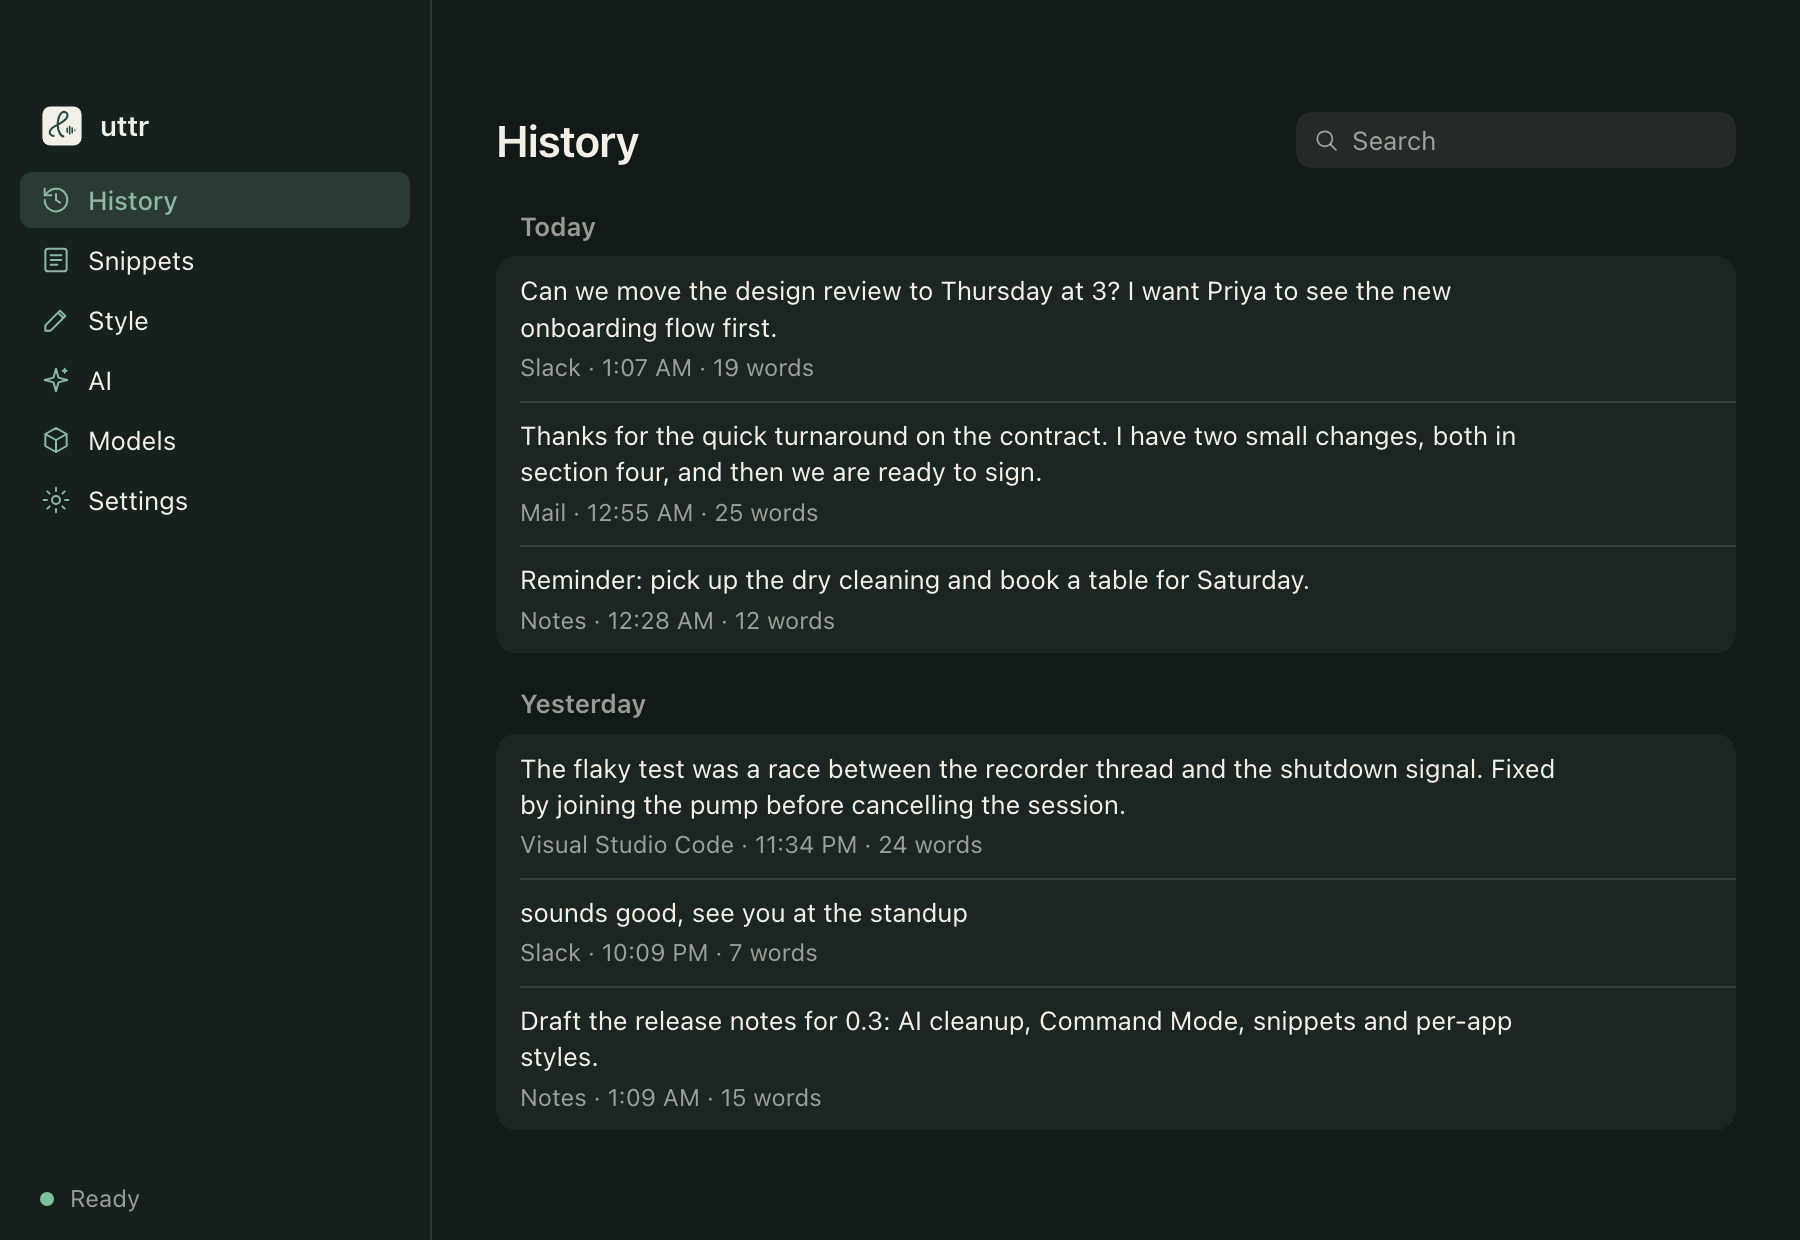
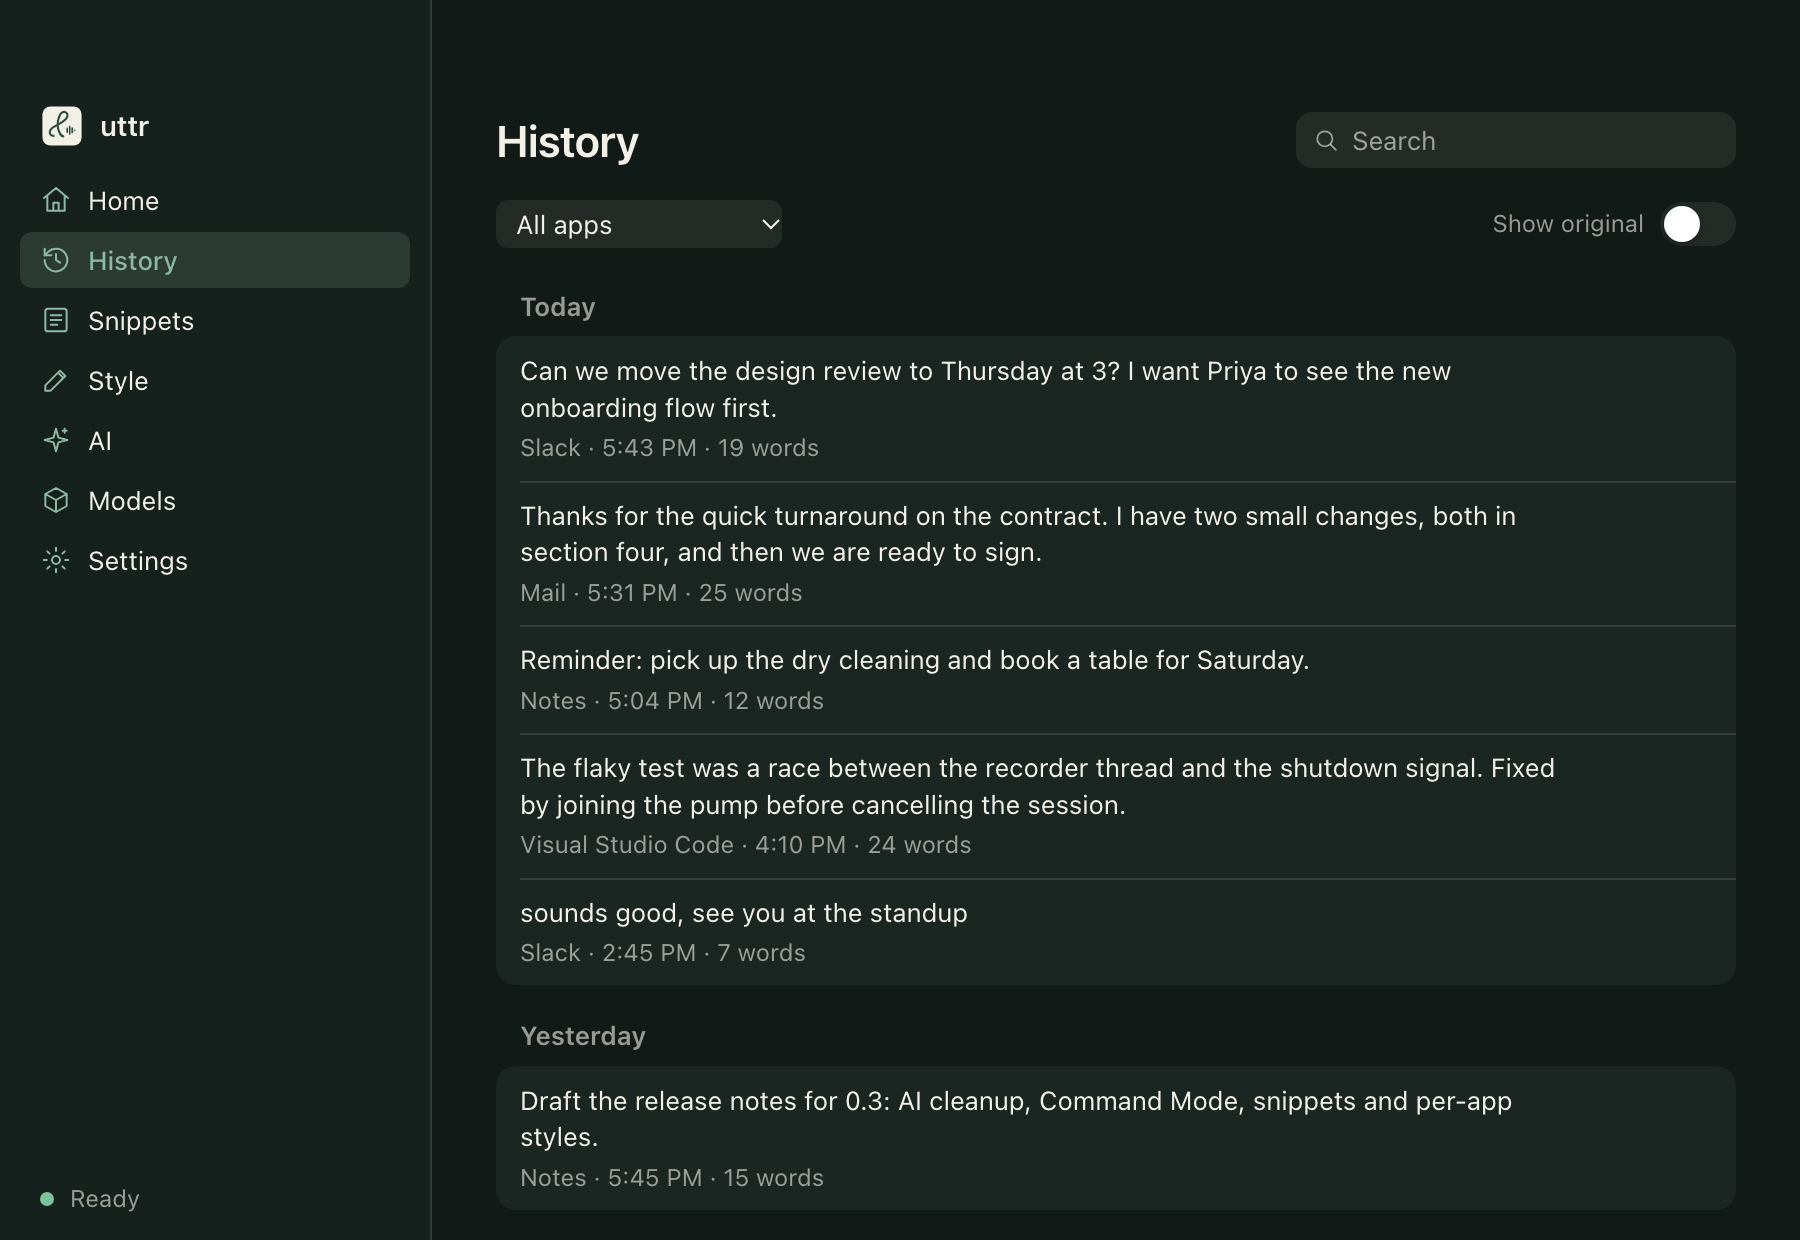
docs: README for Part 3, BYOK speech, OpenRouter and Wayland; new screenshots
README now opens with the Home dashboard and shows OpenRouter, BYOK speech, history,
setup and the tour. Adds BYOK and Wayland docs, marks every roadmap phase done, and
extends the E2E checklist. Home tiles use short labels so values line up; the
screenshot harness gained sample stats, OpenRouter models and step/tour options.

diff --git a/scripts/screenshots/mock.ts b/scripts/screenshots/mock.ts
@@ -27,6 +27,15 @@ const settings = {
   onboarded: true, commandHotkey: { keys: ['Fn', 'ControlLeft'] }, aiProvider: 'local', openaiModel: 'gpt-5-mini',
   openaiBaseUrl: 'https://api.openai.com/v1', anthropicModel: 'claude-opus-5-5', defaultStyle: 'formal',
   appStyles: [{ app: 'Slack', style: 'veryCasual' }, { app: 'Messages', style: 'casual' }, { app: 'Mail', style: 'formal' }],
+  openrouterModel: 'anthropic/claude-opus-5.5', sttProvider: 'local', sttCloudBaseUrl: 'https://api.groq.com/openai/v1',
+  sttCloudModel: 'whisper-large-v3-turbo', sttCloudLanguage: '', historyRetentionDays: null,
+};
+const day = (i: number) => new Date(now - (29 - i) * 86_400_000).toISOString().slice(0, 10);
+const words = [120, 340, 0, 410, 280, 520, 610, 0, 0, 380, 450, 700, 640, 300, 520, 810, 760, 0, 430, 590, 680, 720, 910, 0, 560, 840, 990, 760, 880, 640];
+const stats = {
+  totalWords: 48210, dictations: 1284, speakingMs: 21_300_000, avgWpm: 135.8, currentStreak: 6, longestStreak: 14,
+  timeSavedMin: 850.3, days: words.map((w, i) => ({ date: day(i), words: w })),
+  topApps: [{ app: 'Slack', words: 17840 }, { app: 'Mail', words: 11230 }, { app: 'Visual Studio Code', words: 8120 }, { app: 'Notes', words: 6010 }, { app: 'Messages', words: 3420 }],
 };
 const t = (id: number, ago: number, text: string, app: string, words: number) => ({
   id, createdAt: now - ago * min, text, rawText: text, appName: app, durationMs: words * 400, wordCount: words, wpm: 150, modelId: 'parakeet-v2',
@@ -54,7 +63,13 @@ const replies: Record<string, unknown> = {
   recommend: { id: 'parakeet-v2', hardware: {} },
   llm_catalog: llms,
   llm_installed: [{ ...llms[0], diskBytes: 1_117_320_736, active: true }],
-  ai_keys_status: { openAi: false, anthropic: true },
+  ai_keys_status: { openAi: false, anthropic: true, openRouter: true, speech: false },
+  stats,
+  openrouter_models: [
+    { id: 'anthropic/claude-opus-5.5', name: 'Anthropic: Claude Opus 5.5', contextLength: 1000000, inputPerM: 4, outputPerM: 20 },
+    { id: 'anthropic/claude-haiku-5.5', name: 'Anthropic: Claude Haiku 5.5', contextLength: 1000000, inputPerM: 0.1, outputPerM: 0.5 },
+    { id: 'openai/gpt-5-mini', name: 'OpenAI: GPT-5 Mini', contextLength: 400000, inputPerM: 0.25, outputPerM: 2 },
+  ],
   ai_try: 'I think we should meet on Wednesday at ten.',
   history_list: history,
   dictionary_list: [{ id: 1, term: 'Kubernetes', replacement: null }, { id: 2, term: 'uttr', replacement: null }],
@@ -63,12 +78,23 @@ const replies: Record<string, unknown> = {
   mic_list: ['MacBook Pro Microphone', 'AirPods Pro'],
 };
 
+const params = new URLSearchParams(location.search);
+// ?provider=openRouter, ?stt=cloud and ?tour=1 show those states.
+if (params.get('provider')) settings.aiProvider = params.get('provider')!;
+if (params.get('stt')) settings.sttProvider = params.get('stt')!;
+try {
+  localStorage.setItem('uttr.tour.done', params.get('tour') ? '' : '1');
+  if (!params.get('tour')) localStorage.removeItem('uttr.getStarted.hidden');
+  // ?step=4 opens onboarding on that step (0-based).
+  if (params.get('step')) localStorage.setItem('uttr.onboardingStep', params.get('step')!);
+} catch { /* storage unavailable */ }
+
 mockIPC((cmd, args) => {
   if (cmd === 'history_list') return (args as { page: number }).page === 0 ? history : [];
   return replies[cmd] ?? null;
 }, { shouldMockEvents: true });
 
-const theme = new URLSearchParams(location.search).get('theme');
+const theme = params.get('theme');
 if (theme) localStorage.setItem('uttr.theme', theme);
 
 await import('../../src/main.tsx');

diff --git a/src/pages/Home.tsx b/src/pages/Home.tsx
@@ -24,10 +24,11 @@ function greeting(d = new Date()): string {
   return h < 12 ? 'Good morning' : h < 18 ? 'Good afternoon' : 'Good evening';
 }
 
-function Tile({ label, value, hint, icon }: { label: string; value: string; hint: string; icon: IconName }) {
+/** `label` names the tile for screen readers; `short` is what fits on it. */
+function Tile({ label, short, value, hint, icon }: { label: string; short: string; value: string; hint: string; icon: IconName }) {
   return (
     <div className="home-tile" role="group" aria-label={label}>
-      <span className="home-tile-head"><Icon name={icon} size={14} />{label}<InfoTip text={hint} /></span>
+      <span className="home-tile-head"><Icon name={icon} size={14} /><span className="home-tile-label" aria-hidden="true">{short}</span><InfoTip text={hint} /></span>
       <span className="home-tile-value">{value}</span>
     </div>
   );
@@ -136,10 +137,10 @@ export default function Home() {
       {stats && !empty && (
         <>
           <div className="home-tiles">
-            <Tile label="Words dictated" icon="mic" value={stats.totalWords.toLocaleString()} hint={`Across ${stats.dictations.toLocaleString()} dictations.`} />
-            <Tile label="Average speed" icon="sparkle" value={`${Math.round(stats.avgWpm)} WPM`} hint="Words per minute while you speak. Typing is about 40." />
-            <Tile label="Day streak" icon="history" value={`${stats.currentStreak} ${stats.currentStreak === 1 ? 'day' : 'days'}`} hint={`Days in a row with a dictation. Your longest: ${stats.longestStreak}.`} />
-            <Tile label="Time saved" icon="check" value={fmtMinutes(stats.timeSavedMin)} hint="Compared with typing the same words at 40 words per minute." />
+            <Tile label="Words dictated" short="Words" icon="mic" value={stats.totalWords.toLocaleString()} hint={`Across ${stats.dictations.toLocaleString()} dictations.`} />
+            <Tile label="Average speed" short="Speed" icon="sparkle" value={`${Math.round(stats.avgWpm)} WPM`} hint="Words per minute while you speak. Typing is about 40." />
+            <Tile label="Day streak" short="Streak" icon="history" value={`${stats.currentStreak} ${stats.currentStreak === 1 ? 'day' : 'days'}`} hint={`Days in a row with a dictation. Your longest: ${stats.longestStreak}.`} />
+            <Tile label="Time saved" short="Time saved" icon="check" value={fmtMinutes(stats.timeSavedMin)} hint="Compared with typing the same words at 40 words per minute." />
           </div>
           <Group title="Last 30 days"><div className="ui-row home-chart-row"><Chart days={stats.days} /></div></Group>
           <div className="home-columns">

diff --git a/src/main.css b/src/main.css
@@ -189,7 +189,8 @@
 .home-sub { display: flex; align-items: center; gap: 4px; flex-wrap: wrap; margin-top: 2px; }
 .home-tiles { display: grid; grid-template-columns: repeat(4, minmax(0, 1fr)); gap: 10px; }
 .home-tile { background: var(--surface); border-radius: var(--radius-group); padding: 12px 14px; display: flex; flex-direction: column; gap: 6px; box-shadow: 0 0 0 1px var(--separator); }
-.home-tile-head { display: flex; align-items: center; gap: 6px; font-size: 12px; color: var(--label-secondary); }
+.home-tile-head { display: flex; align-items: center; gap: 6px; font-size: 12px; color: var(--label-secondary); min-width: 0; }
+.home-tile-label { flex: 1; min-width: 0; white-space: nowrap; overflow: hidden; text-overflow: ellipsis; }
 .home-tile-value { font-size: 22px; font-weight: 650; letter-spacing: -0.02em; font-variant-numeric: tabular-nums; }
 .home-chart-row { padding-top: 14px; padding-bottom: 10px; }
 .home-chart { display: flex; align-items: flex-end; gap: 3px; height: 96px; width: 100%; }
@@ -238,7 +239,7 @@
 .onb-highlight strong { display: block; margin-bottom: 2px; }
 .onb-highlight .muted { display: block; line-height: 1.4; }
 .onb-highlight-icon { flex: none; width: 30px; height: 30px; border-radius: 8px; background: var(--accent-tint); color: var(--accent); display: inline-flex; align-items: center; justify-content: center; }
-.onb-moves { margin: 4px 0 0; padding-left: 20px; text-align: left; display: flex; flex-direction: column; gap: 8px; line-height: 1.45; }
+.onb-moves { list-style: decimal; margin: 4px 0 0; padding-left: 20px; text-align: left; display: flex; flex-direction: column; gap: 8px; line-height: 1.45; }
 .onb-moves .ui-keycaps { vertical-align: middle; margin: 0 2px; }
 .onb-summary { list-style: none; margin: 4px 0 0; padding: 0; width: 100%; text-align: left; }
 .demo { position: relative; width: 100%; height: 190px; border-radius: 14px; background: linear-gradient(160deg, var(--accent-tint), transparent 70%), var(--fill); overflow: hidden; }

diff --git a/README.md b/README.md
@@ -19,13 +19,13 @@ It is a small [Tauri 2](https://tauri.app) app (Rust core, React UI) that lives 
 The installer includes everything the app needs, including the ONNX Runtime libraries. You download
 models from Hugging Face inside the app.
 
-> Status: Part 1 (core dictation and the local model manager) and Part 2 (text intelligence: AI cleanup,
-> Command Mode, snippets and per-app styles) are done. See the [Roadmap](#roadmap).
+> Status: every roadmap phase is done: core dictation and the model manager (Part 1), text intelligence
+> (Part 2), the Home dashboard (Part 3) and Wayland shortcuts. See the [Roadmap](#roadmap).
 
 <p align="center">
   <picture>
-    <source media="(prefers-color-scheme: dark)" srcset="docs/images/history-dark.png">
-    <img src="docs/images/history-light.png" alt="The uttr window showing the History page with recent dictations" width="760">
+    <source media="(prefers-color-scheme: dark)" srcset="docs/images/home-dark.png">
+    <img src="docs/images/home-light.png" alt="The uttr Home page: words dictated, speed, streak, time saved and a 30-day chart" width="760">
   </picture>
 </p>
 
@@ -48,7 +48,12 @@ models from Hugging Face inside the app.
   such as "make this friendlier" or "translate to Spanish". With nothing selected, uttr writes new text at the cursor.
 - **Snippets**: say a short phrase such as "my calendar link" and uttr types the saved text.
 - **Styles per app**: formal, casual or very casual, chosen by the app you are dictating into (for example very casual in Slack, formal in Mail).
-- Searchable history of your dictations, stored in SQLite on your machine.
+- **Home dashboard**: words dictated, average speed, day streak, time saved against typing, a 30-day chart and your top apps.
+- Searchable history of your dictations, stored in SQLite on your machine. Filter by app, compare with the original
+  transcript, and choose how long history is kept.
+- **Bring your own key for speech** (optional): transcribe with OpenAI, Groq or any OpenAI-compatible server
+  instead of an on-device model.
+- A guided setup, an in-app tour of every page and tooltips that explain the technical settings.
 - Low resource use. uttr stays in the tray at rest, and the model unloads after an idle timeout (10 minutes by default, or never).
 - Optional Hugging Face token for gated or private repos, stored in the system keychain.
 - Open at login, microphone selection and a configurable shortcut.
@@ -59,18 +64,24 @@ models from Hugging Face inside the app.
 - The microphone stays open for up to 15 s after a dictation so the next one does not clip the first word. While it is open, only the latest 0.3 s of audio is held in memory.
   After 15 s it closes.
 - The only network traffic is model downloads and searches on Hugging Face, which you start yourself.
-- AI is off by default. On-device AI keeps your text on your computer. If you choose OpenAI or Anthropic, the
-  dictated **text** (never the audio) is sent to that provider, and your API key is stored in the system keychain.
+- AI is off by default. On-device AI keeps your text on your computer. If you choose OpenAI, Anthropic or OpenRouter,
+  the dictated **text** (never the audio) is sent to that provider, and your API key is stored in the system keychain.
+- Speech runs on your computer unless you switch to **Cloud (your key)** on the Models page. Then the **audio** of each
+  dictation is sent to the service you chose (OpenAI, Groq or your own server) and billed to your account.
 - Custom Hugging Face repos: files tracked with Git LFS are checked against their SHA-256. Other files
   (such as `tokens.txt`) are checked for size only, because Hugging Face publishes no hash for them.
 
 ## Screenshots
 
-| AI cleanup and Command Mode | Snippets |
+| AI cleanup with OpenRouter | Bring your own key for speech |
 |---|---|
-| ![The AI page: provider choice, on-device models and the Command Mode shortcut](docs/images/ai-light.png) | ![The Snippets page with an email address, a calendar link and a sign-off](docs/images/snippets-light.png) |
-| **Styles per app** | **Dark theme** |
-| ![The Style page with a default style and rules for Slack, Messages and Mail](docs/images/style-light.png) | ![The AI page in the dark theme](docs/images/ai-dark.png) |
+| ![The AI page with OpenRouter, a model picker with prices and the Command Mode shortcut](docs/images/ai-light.png) | ![The Models page with cloud speech through Groq](docs/images/byok-light.png) |
+| **History** | **Snippets** |
+| ![The History page with an app filter and the Show original switch](docs/images/history-light.png) | ![The Snippets page with an email address, a calendar link and a sign-off](docs/images/snippets-light.png) |
+| **Styles per app** | **Setup: How it works** |
+| ![The Style page with a default style and rules for Slack, Messages and Mail](docs/images/style-light.png) | ![The How it works step of setup, with an animated demo](docs/images/onboarding-light.png) |
+| **The tour** | **Dark theme** |
+| ![The in-app tour pointing at Home](docs/images/tour-light.png) | ![The AI page in the dark theme](docs/images/ai-dark.png) |
 
 The screenshots use sample data. To retake them after a UI change, see [scripts/screenshots](scripts/screenshots/README.md).
 
@@ -117,9 +128,10 @@ Run the installer. For unsigned builds, Windows SmartScreen may warn about an un
 ### Linux
 
 - **X11**: supported. The default shortcut is to hold `Ctrl+Super`.
-- **Wayland**: the global shortcut is not available yet, and the app shows "The global shortcut is not available on Wayland."
-  Use an X11 session for now. Where synthetic paste is blocked, the text stays on the clipboard and you paste it yourself.
-  Support through the XDG GlobalShortcuts portal is on the [Roadmap](#roadmap).
+- **Wayland**: shortcuts go through the XDG GlobalShortcuts portal (GNOME 48 or KDE Plasma 6 and later). The desktop
+  asks you to approve uttr's two shortcuts, Dictate and Command Mode, and you can change their keys in its settings.
+  Esc does not cancel a dictation there, because the portal cannot report it. Where synthetic paste is blocked, the
+  text stays on the clipboard and you paste it yourself.
 - Make the AppImage executable (`chmod +x uttr_*.AppImage`) or install the `.deb` with `sudo apt install ./uttr_*.deb`.
 
 ## Supported models
@@ -151,6 +163,7 @@ Choose a provider on the **AI** page:
 | On this computer | Nowhere | Download a model on the AI page; it runs with [llama.cpp](https://github.com/ggml-org/llama.cpp) (Metal on Apple Silicon) |
 | OpenAI | OpenAI, or the OpenAI-compatible server you set | API key (not needed for local servers such as Ollama), model name (default `gpt-5-mini`) |
 | Anthropic | Anthropic | API key, model name (default `claude-opus-5-5`) |
+| OpenRouter | OpenRouter, then the model's provider | API key; pick any of its models from a searchable list with prices (default `anthropic/claude-opus-5.5`) |
 
 On-device models ([`src-tauri/resources/llm_catalog.json`](src-tauri/resources/llm_catalog.json), pinned and SHA-256 verified):
 
@@ -171,6 +184,19 @@ How it fits together:
 Command Mode reads the selection with a synthetic copy (your clipboard is restored), sends your spoken instruction
 and the selection to the AI, and pastes the answer over the selection. The Flow Bar shows **Command** while you speak.
 You can also start a normal dictation and add the extra key to switch it to Command Mode.
+
+## Bring your own key for speech (BYOK)
+
+On the Models page, **Speech recognition** switches between models on this computer and **Cloud (your key)**:
+
+| Service | Server address | Default model |
+|---|---|---|
+| OpenAI | `https://api.openai.com/v1` | `whisper-1` |
+| Groq | `https://api.groq.com/openai/v1` | `whisper-large-v3-turbo` |
+| Other | any OpenAI-compatible `/audio/transcriptions` server, such as a self-hosted Whisper | your choice; a key is optional |
+
+uttr still cuts your speech at pauses and uploads each piece as 16 kHz WAV while you talk, so long dictations finish
+soon after you let go. If a key is missing, the shortcut says what to add instead of recording.
 
 ### Measured performance
 
@@ -216,10 +242,11 @@ One Rust process owns audio, inference, hotkeys, I/O and persistence. The web UI
 
 | Module | Responsibility |
 |---|---|
-| `hotkey` | Global triggers (macOS `Fn` event tap, `rdev`, Wayland portal stub) and the tap and double-tap gesture logic |
+| `hotkey` | Global triggers (macOS `Fn` event tap, `rdev`, the Wayland GlobalShortcuts portal) and the tap and double-tap gesture logic |
 | `audio` | `cpal` capture, resampling to 16 kHz mono, energy VAD, level meter |
 | `dictation` | Pure state machine plus the controller that wires audio, STT, post-processing, insertion and storage |
-| `stt` | `ChunkPlanner`, `SttSession`, the worker thread and the sherpa-onnx engine |
+| `stt` | `ChunkPlanner`, `SttSession`, the worker thread, the sherpa-onnx engine and BYOK cloud transcription |
+| `stats` | Home dashboard statistics (local days, streaks, time saved) and history retention |
 | `models` | Catalog, Hugging Face search, resumable verified downloader, hardware detection, lifecycle |
 | `postprocess` | Spacing and capitalization fixes, dictionary replacements |
 | `llm` | AI cleanup and Command Mode: prompts, the llama.cpp worker, OpenAI and Anthropic clients |
@@ -288,10 +315,11 @@ The manual end-to-end checks for dictation in real apps are listed in [docs/E2E-
 
 ## Roadmap
 
-- **Linux/Wayland**: global shortcuts through the XDG GlobalShortcuts portal.
+- ~~**Linux/Wayland**: global shortcuts through the XDG GlobalShortcuts portal.~~ Done.
 - ~~**Part 2, text intelligence**: local LLM cleanup (llama.cpp), an optional API key for OpenAI or Anthropic,
-  Command Mode, snippets and per-app styles.~~ Done.
-- **Part 3, dashboard**: a dashboard like Wispr's with words, WPM, streaks and time saved, plus full history.
+  Command Mode, snippets and per-app styles.~~ Done, plus OpenRouter.
+- ~~**Part 3, dashboard**: a dashboard like Wispr's with words, WPM, streaks and time saved, plus full history.~~ Done,
+  plus bring-your-own-key speech, a guided setup and an in-app tour.
 
 Not planned for Part 1: auto-update, accounts or sync. Release process: [docs/RELEASING.md](docs/RELEASING.md).
 

diff --git a/docs/E2E-CHECKLIST.md b/docs/E2E-CHECKLIST.md
@@ -42,6 +42,17 @@ For each of **TextEdit, a Safari textarea, VS Code and Slack**:
 - [ ] Snippets: add "my email" and say "my email." on its own: the address is inserted exactly. Inside a sentence it is expanded too.
 - [ ] Style: add Slack as Very casual, dictate "Sounds good." into Slack: "sounds good" is inserted. Mail with Formal keeps "Sounds good."
 
+## 3c. Part 3, BYOK and onboarding
+
+- [ ] AI page, OpenRouter: save a key, search "haiku", pick a model; Try it cleans up the sample.
+- [ ] Models page, Cloud (your key), Groq preset: save a key and dictate; the text arrives and History shows `cloud:whisper-large-v3-turbo`.
+- [ ] Cloud speech without a key: the shortcut shows "Add your speech API key on the Models page." and records nothing.
+- [ ] Home shows words, speed, streak and time saved after a few dictations; the chart's last bar is today.
+- [ ] History: filter by an app, switch on Show original, and set Keep history to 7 days.
+- [ ] A fresh setup (Settings > Help > Run setup) shows How it works with its animation and ends on All set; Start the tour walks all eight steps.
+- [ ] Hovering or tabbing to an icon button or an "i" shows its tooltip; Esc hides it.
+- [ ] Linux (Wayland, GNOME 48+ or Plasma 6): the desktop asks to approve Dictate and Command Mode; holding the shortcut dictates.
+
 ## 4. Performance
 
 - [ ] A 5 s utterance is inserted in under 500 ms after key-up on Apple Silicon. Check the timing in the logs, or use the numbers from the ignored integration test.
